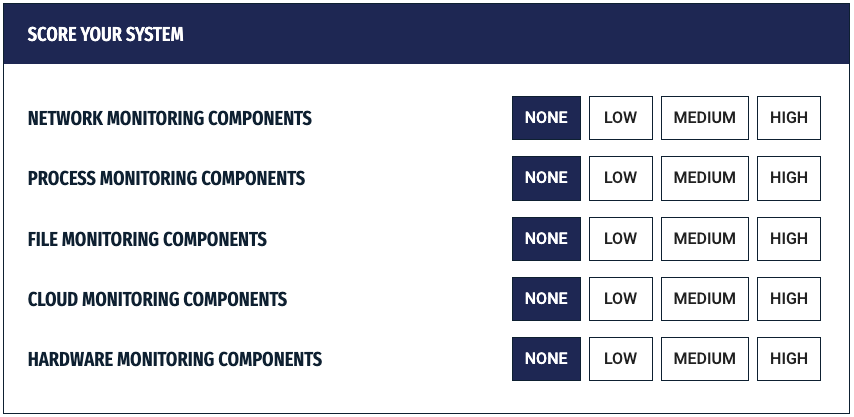
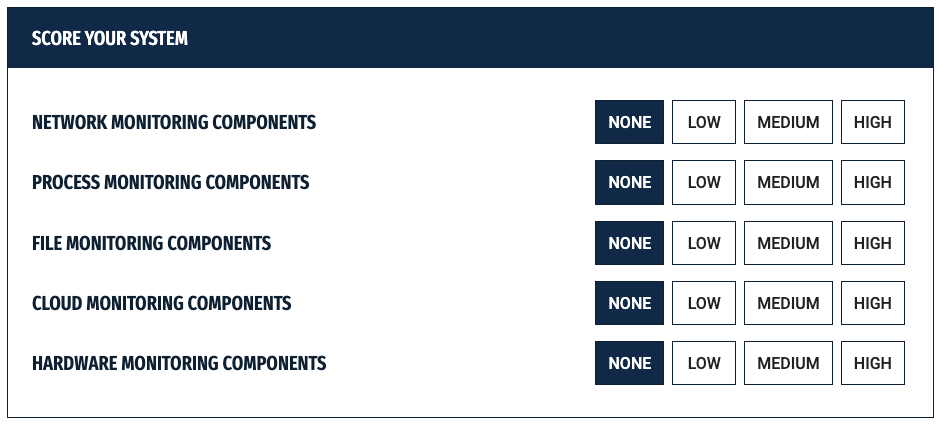
style(TAT-156): convert to mitre style and update assets

diff --git a/src/index.css b/src/index.css
@@ -4,158 +4,206 @@
 
 /* Global Styles */
 body {
-    margin: 0;
+  margin: 0;
 }
+
 #page-body {
-    @apply pt-20 bg-white text-ctid-black min-h-screen
+  @apply pt-20 bg-white text-ctid-black min-h-screen;
 }
 
 #app {
-    @apply top-0 m-0;
-    font-family: "Roboto", sans-serif;
+  @apply top-0 m-0;
+  font-family: "Roboto", sans-serif;
 }
 
-h1, h2, h3, h4, h5, h6 {
-    @apply uppercase;
-    font-family: "Fira Sans Extra Condensed", sans-serif;
+h1,
+h2,
+h3,
+h4,
+h5,
+h6 {
+  @apply uppercase;
+  font-family: "Fira Sans Extra Condensed", sans-serif;
 }
+
 .btn-primary-light {
-    @apply bg-ctid-light-purple hover:bg-ctid-primary-purple hover:text-white my-4 py-4 uppercase font-bold text-lg;
-    font-family: "Fira Sans Extra Condensed", sans-serif;
+  @apply bg-ctid-light-blue hover:bg-ctid-blue hover:text-white my-4 py-4 uppercase font-bold text-lg;
+  font-family: "Fira Sans Extra Condensed", sans-serif;
 }
-.btn-primary {
-    @apply bg-ctid-navy hover:bg-ctid-dark-navy  text-white w-full p-4 text-center my-4 py-4 uppercase font-bold text-lg;
-    font-family: "Fira Sans Extra Condensed", sans-serif;
 
+.btn-primary {
+  @apply bg-ctid-navy hover:bg-ctid-dark-navy text-white w-full p-4 text-center my-4 py-4 uppercase font-bold text-lg;
+  font-family: "Fira Sans Extra Condensed", sans-serif;
 }
 
 .description a {
-    @apply text-ctid-blue hover:underline
+  @apply text-ctid-blue hover:underline;
 }
-.description p {
-    @apply mb-2;
-    font-size: 15px;
 
+.description p {
+  @apply mb-2;
+  font-size: 15px;
 }
 
 /* Calculator */
 .calculator-details {
-    @apply border-ctid-black border-[1px]
+  @apply border-ctid-black border-[1px];
 }
+
 .container {
-    @apply border-[1px] h-full border-ctid-black text-left lg:my-0 my-2
+  @apply border-[1px] h-full border-ctid-black text-left lg:my-0 my-2;
 }
+
 .container-header {
-    @apply py-3 px-6
+  @apply py-3 px-6;
 }
+
 .container-header {
-    @apply bg-ctid-navy text-white font-medium uppercase text-lg
+  @apply bg-ctid-navy text-white font-medium uppercase text-lg;
 }
+
 .container h2 {
-    @apply uppercase text-xl w-full
+  @apply uppercase text-xl w-full;
 }
+
 .container-row {
-    @apply lg:flex gap-4 my-8
+  @apply lg:flex gap-4 my-8;
 }
+
 .checkbox-group {
-    @apply w-full my-4 flex gap-4
+  @apply w-full my-4 flex gap-4;
 }
 
 /* Primevue Overrides */
 .p-tabmenu .p-tabmenu-nav .p-tabmenuitem .p-menuitem-link {
-    border-top-right-radius: 0;
-    border-top-left-radius: 0;
+  border-top-right-radius: 0;
+  border-top-left-radius: 0;
 }
+
 .p-tabmenu .p-menuitem-link {
-    @apply bg-ctid-navy uppercase text-white hover:text-ctid-light-purple;
-    font-family: "Fira Sans Extra Condensed", sans-serif;
+  @apply bg-ctid-navy uppercase text-white hover:text-ctid-light-blue;
+  font-family: "Fira Sans Extra Condensed", sans-serif;
 }
-.p-menubar .p-menuitem-link, .p-menubar {
-    @apply uppercase font-medium ;
-    font-family: "Fira Sans Extra Condensed", sans-serif;
+
+.p-menubar .p-menuitem-link,
+.p-menubar {
+  @apply uppercase font-medium;
+  font-family: "Fira Sans Extra Condensed", sans-serif;
 }
+
 .p-menuitem-text {
-    @apply my-2
+  @apply my-2;
 }
+
 .p-accordion-tab {
-    @apply rounded-none shadow-none border-[1px] border-ctid-black -mt-[1px]
+  @apply rounded-none shadow-none border-[1px] border-ctid-black -mt-[1px];
 }
+
 .p-accordion-header {
-    @apply uppercase
+  @apply uppercase;
 }
-.p-accordion-tab .p-highlight, .p-highlight .p-accordion-header-link {
-    @apply bg-ctid-navy text-white
+
+.p-accordion-tab .p-highlight,
+.p-highlight .p-accordion-header-link {
+  @apply bg-ctid-navy text-white;
 }
+
 .p-accordion-header-link {
-    @apply p-4
+  @apply p-4;
 }
-.p-accordion-tab h2, .p-accordion-tab h4 {
-    @apply uppercase font-semibold
+
+.p-accordion-tab h2,
+.p-accordion-tab h4 {
+  @apply uppercase font-semibold;
 }
-.p-accordion-tab h2 .highlight, .p-accordion-tab h4 .highlight {
-    @apply mx-1
+
+.p-accordion-tab h2 .highlight,
+.p-accordion-tab h4 .highlight {
+  @apply mx-1;
 }
-.p-accordion-tab-active h2 .highlight, .subtechniques .p-accordion-tab-active h4 .highlight {
-    @apply text-ctid-light-purple
+
+.p-accordion-tab-active h2 .highlight,
+.subtechniques .p-accordion-tab-active h4 .highlight {
+  @apply text-ctid-light-blue;
 }
+
 .p-accordion {
-    @apply border-collapse
+  @apply border-collapse;
 }
+
 .p-accordion-tab {
-    @apply rounded-none shadow-none border-[1px] border-ctid-black
+  @apply rounded-none shadow-none border-[1px] border-ctid-black;
 }
+
 .p-accordion-header-text {
-    @apply uppercase font-semibold text-lg;
-    font-family: "Fira Sans Extra Condensed", sans-serif;
+  @apply uppercase font-semibold text-lg;
+  font-family: "Fira Sans Extra Condensed", sans-serif;
 }
+
 .p-checkbox-box {
-    @apply border-[1px] border-ctid-black rounded-none
+  @apply border-[1px] border-ctid-black rounded-none;
 }
-.p-checkbox.p-highlight, .p-highlight .p-checkbox-box {
-    @apply bg-ctid-navy
+
+.p-checkbox.p-highlight,
+.p-highlight .p-checkbox-box {
+  @apply bg-ctid-navy;
 }
+
 .p-selectbutton .p-button.p-component {
-    @apply uppercase border-[1px] border-ctid-black rounded-none mx-[-1px] sm:mx-1 md:mx-[-1px] lg:mx-1
+  @apply uppercase border-[1px] border-ctid-black rounded-none mx-[-1px] sm:mx-1 md:mx-[-1px] lg:mx-1;
 }
+
 .p-selectbutton .p-highlight.p-button.p-component {
-    @apply bg-ctid-navy text-white
+  @apply bg-ctid-navy text-white;
 }
+
 .p-tooltip-text {
-    @apply bg-ctid-light-purple/80 text-ctid-black
+  @apply bg-ctid-light-blue/80 text-ctid-black;
 }
-.p-tabmenu-ink-bar, .p-tabview-ink-bar {
-    @apply  bg-ctid-light-purple ;
-}
+
+.p-tabmenu-ink-bar,
 .p-tabview-ink-bar {
-    @apply bg-ctid-primary-purple -mb-[1px]
+  @apply bg-ctid-light-blue;
 }
+
+.p-tabview-ink-bar {
+  @apply bg-ctid-blue -mb-[1px];
+}
+
 .p-highlight .p-menuitem-text {
-    @apply text-ctid-light-purple
+  @apply text-ctid-light-blue;
 }
+
 .p-menubar-root-list {
-    @apply w-60 -ml-40
+  @apply w-60 -ml-40;
 }
 
 .p-tabview-nav-content .p-tabview-header {
-    @apply uppercase mx-1 my-1 font-bold text-xl;
-    font-family: "Fira Sans Extra Condensed", sans-serif;
+  @apply uppercase mx-1 my-1 font-bold text-xl;
+  font-family: "Fira Sans Extra Condensed", sans-serif;
 }
+
 .p-tabview-nav-content.p-tabview-nav {
-    @apply gap-2 w-max cursor-pointer;
+  @apply gap-2 w-max cursor-pointer;
 }
+
 .p-tabview-nav-content .p-tabview a {
-    @apply px-4 py-1 text-xl;
+  @apply px-4 py-1 text-xl;
 }
+
 .p-tabview-nav {
-    @apply w-5/6 mx-auto border-b-2 border-solid
+  @apply w-5/6 mx-auto border-b-2 border-solid;
 }
+
 .p-splitbutton.p-component {
-    @apply w-full bg-ctid-navy text-white rounded-none my-4 ;
+  @apply w-full bg-ctid-navy text-white rounded-none my-4;
 }
+
 .p-splitbutton .p-splitbutton-defaultbutton {
-    @apply uppercase font-semibold text-lg hover:text-ctid-light-purple hover:bg-ctid-dark-navy p-4;
-    font-family: "Fira Sans Extra Condensed", sans-serif;
+  @apply uppercase font-semibold text-lg hover:text-ctid-light-blue hover:bg-ctid-dark-navy p-4;
+  font-family: "Fira Sans Extra Condensed", sans-serif;
 }
+
 .p-splitbutton .p-button-icon-only.p-splitbutton-menubutton {
-    @apply hover:text-ctid-light-purple hover:bg-ctid-dark-navy px-2
+  @apply hover:text-ctid-light-blue hover:bg-ctid-dark-navy px-2;
 }

diff --git a/src/components/NavigationFooter.vue b/src/components/NavigationFooter.vue
@@ -9,7 +9,7 @@
                 </h1>
                 <p class="my-4">
                     The <a href="https://mitre-engenuity.org/cybersecurity/center-for-threat-informed-defense/"
-                        target="_blank" class="underline hover:text-ctid-light-purple">Center for Threat-Informed
+                        target="_blank" class="underline hover:text-ctid-light-blue">Center for Threat-Informed
                         Defense</a> is a non-profit, privately funded research and development organization. Our
                     mission is to advance the state of the art and the state of the practice in threat-informed defense
                     globally.
@@ -42,10 +42,10 @@
                 <div class="internal-links">
                     <div v-for="(item, i) of externalProjects" :key="item.label" class="flex">
                         <a :href="item.route" target="blank"
-                            class="hover:underline hover:text-ctid-light-purple md:mx-0 mx-2 my-auto">{{
-                            item.label }}</a>
+                            class="hover:underline hover:text-ctid-light-blue md:mx-0 mx-2 my-auto">{{
+                                item.label }}</a>
                         <div v-if="i !== externalProjects.length - 1"
-                            class="md:block hidden mx-4 2xl:mx-8 w-[3px] h-full bg-ctid-light-purple"></div>
+                            class="md:block hidden mx-4 2xl:mx-8 w-[3px] h-full bg-ctid-light-blue"></div>
                     </div>
                 </div>
             </div>
@@ -91,12 +91,12 @@ h2 {
 }
 
 .internal-links div::before {
-    @apply text-ctid-light-purple mr-2 block md:hidden text-lg;
+    @apply text-ctid-light-blue mr-2 block md:hidden text-lg;
     content: "-";
 }
 
 .social-links a {
-    @apply bg-ctid-light-purple hover:bg-white text-ctid-navy rounded-full flex h-8 w-8 my-auto text-center;
+    @apply bg-ctid-light-blue hover:bg-white text-ctid-navy rounded-full flex h-8 w-8 my-auto text-center;
 }
 
 .social-links i {

diff --git a/src/components/SectionItem.vue b/src/components/SectionItem.vue
@@ -8,7 +8,7 @@
     </router-link>
     <p class="text-sm md:text-[15px]">{{ description }}</p>
     <router-link :to="link" routerLinkActive="router-link-active"
-      class="flex border-b-2 border-ctid-light-purple uppercase w-max md:mt-6 mt-3">
+      class="flex border-b-2 border-ctid-light-blue uppercase w-max md:mt-6 mt-3">
       <p class="link font-semibold">{{ linkText }}</p>
       <img :src="ArrowRight" class="h-6 ml-8" />
     </router-link>
@@ -45,7 +45,7 @@ export default defineComponent({
 
 <style scoped>
 .link {
-  @apply hover:text-ctid-light-purple md:text-lg;
+  @apply hover:text-ctid-light-blue md:text-lg;
   font-family: "Fira Sans Extra Condensed", sans-serif;
 }
 </style>

diff --git a/src/views/HomePage.vue b/src/views/HomePage.vue
@@ -5,7 +5,7 @@
         <div class="title">
           <img v-bind:src="LogoVertical" class="xl:h-60 h-52 lg:block hidden my-auto" alt="Top Attack Techniques" />
           <img v-bind:src="LogoHorizontal" class="h-20 lg:hidden block" alt="Top Attack Techniques" />
-          <div class="lg:w-4 lg:h-auto w-full h-1 bg-ctid-light-purple my-4 lg:my-0 lg:mx-4"></div>
+          <div class="lg:w-4 lg:h-auto w-full h-1 bg-ctid-light-blue my-4 lg:my-0 lg:mx-4"></div>
           <p class="my-auto text-sm lg:text-base ">
             Top ATT&amp;CK Techniques provides defenders with a systematic approach
             to prioritizing ATT&amp;CK techniques. Our open methodology considers

diff --git a/src/components/TopTenWrapper.vue b/src/components/TopTenWrapper.vue
@@ -13,7 +13,7 @@
                 <div class="calculator-details">
                     <div class="container-header">
                         <h2>
-                            <span class=" text-ctid-light-purple">
+                            <span class=" text-ctid-light-blue">
                                 {{ rankedList[activeItemId].tid }}
                             </span>
                             {{ rankedList[activeItemId].name }}

diff --git a/tailwind.config.js b/tailwind.config.js
@@ -6,13 +6,12 @@ module.exports = {
     extend: {
       colors: {
         ctid: {
-          navy: "#212C5E",
-          black: "#0B2338",
-          "primary-purple": "#7450B2",
-          "light-purple": "#CEBEEA",
+          navy: "#0D2F4F",
+          black: "#111921",
           blue: "#005B94",
           "dark-navy": "#0B2338",
           "light-gray": "#BCBCBC",
+          "light-blue": "#87DEFF",
         },
       },
     },

diff --git a/src/components/TopTenSidebar.vue b/src/components/TopTenSidebar.vue
@@ -46,7 +46,7 @@ export default defineComponent({
 }
 
 .calculator-list .list-item.active .highlight {
-    @apply text-ctid-light-purple
+    @apply text-ctid-light-blue
 }
 
 .list-item i {

diff --git a/src/components/SystemScoreSection.vue b/src/components/SystemScoreSection.vue
@@ -67,7 +67,7 @@ export default defineComponent({
 }
 
 .system-score-row .highlight {
-    @apply text-ctid-primary-purple
+    @apply text-ctid-blue
 }
 
 .filters-scores div {

diff --git a/src/components/MethodologySidebar.vue b/src/components/MethodologySidebar.vue
@@ -31,7 +31,7 @@ export default defineComponent({
 }
 
 .list-item.active .highlight {
-    @apply text-ctid-light-purple
+    @apply text-ctid-light-blue
 }
 
 .highlight {
